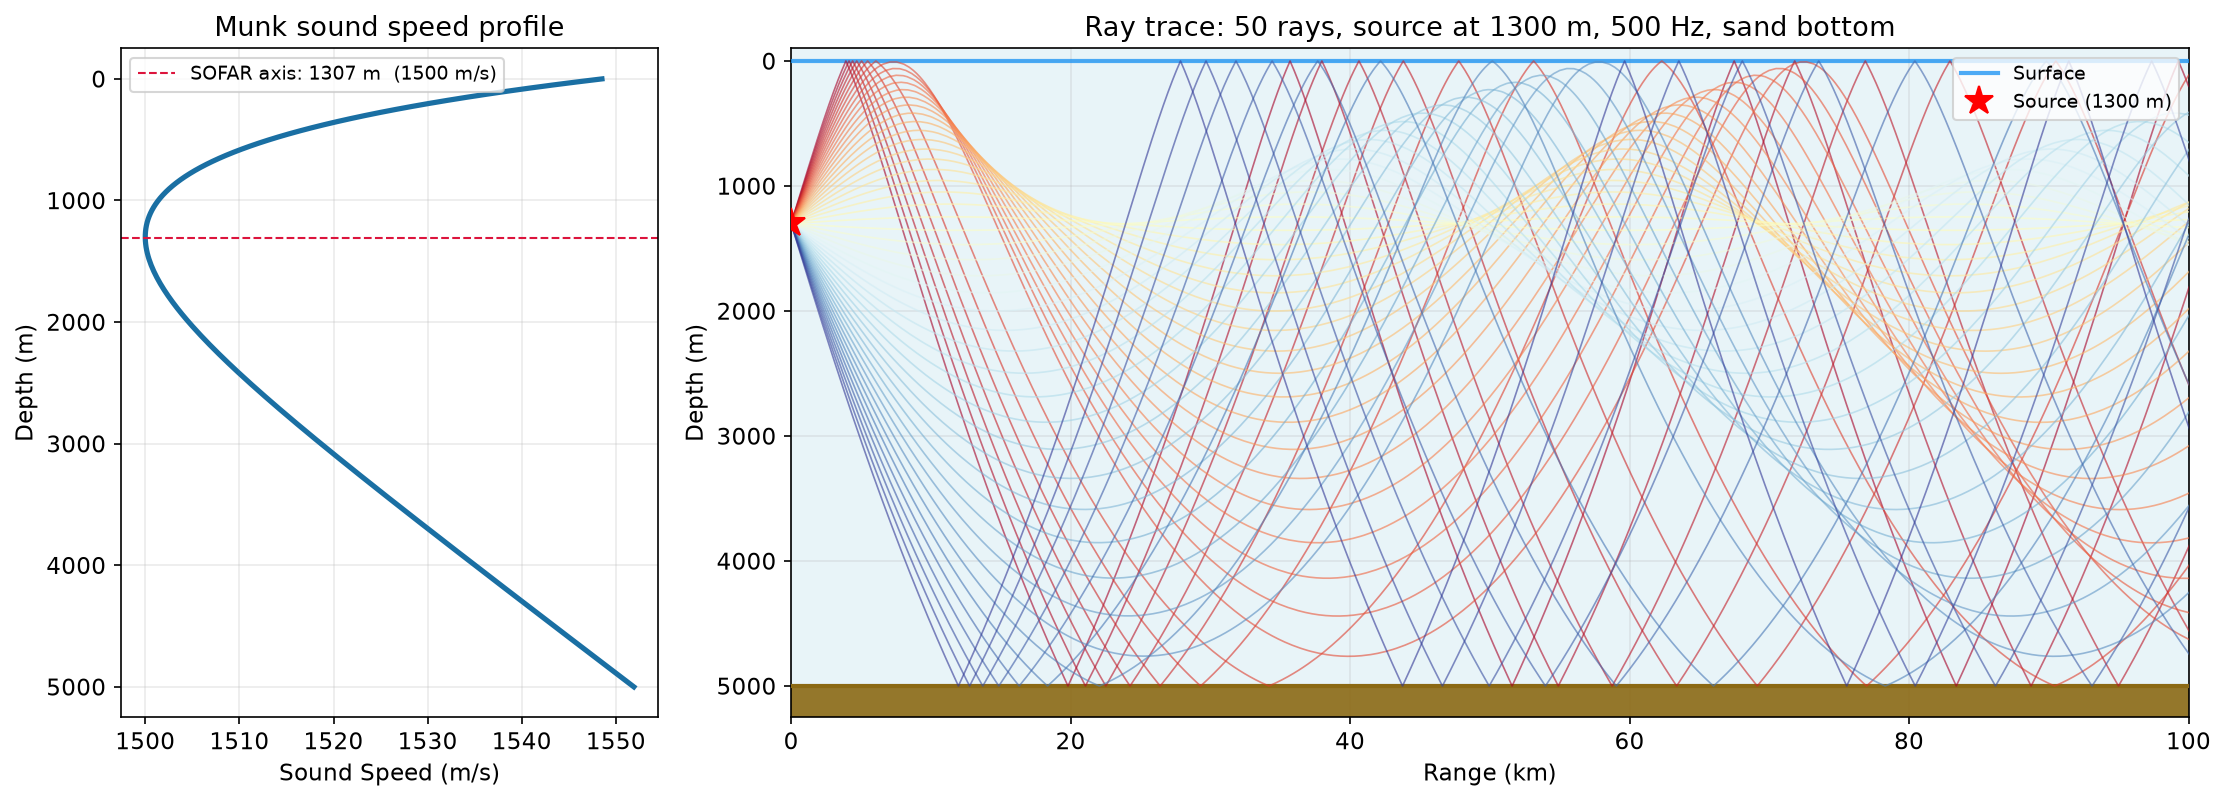
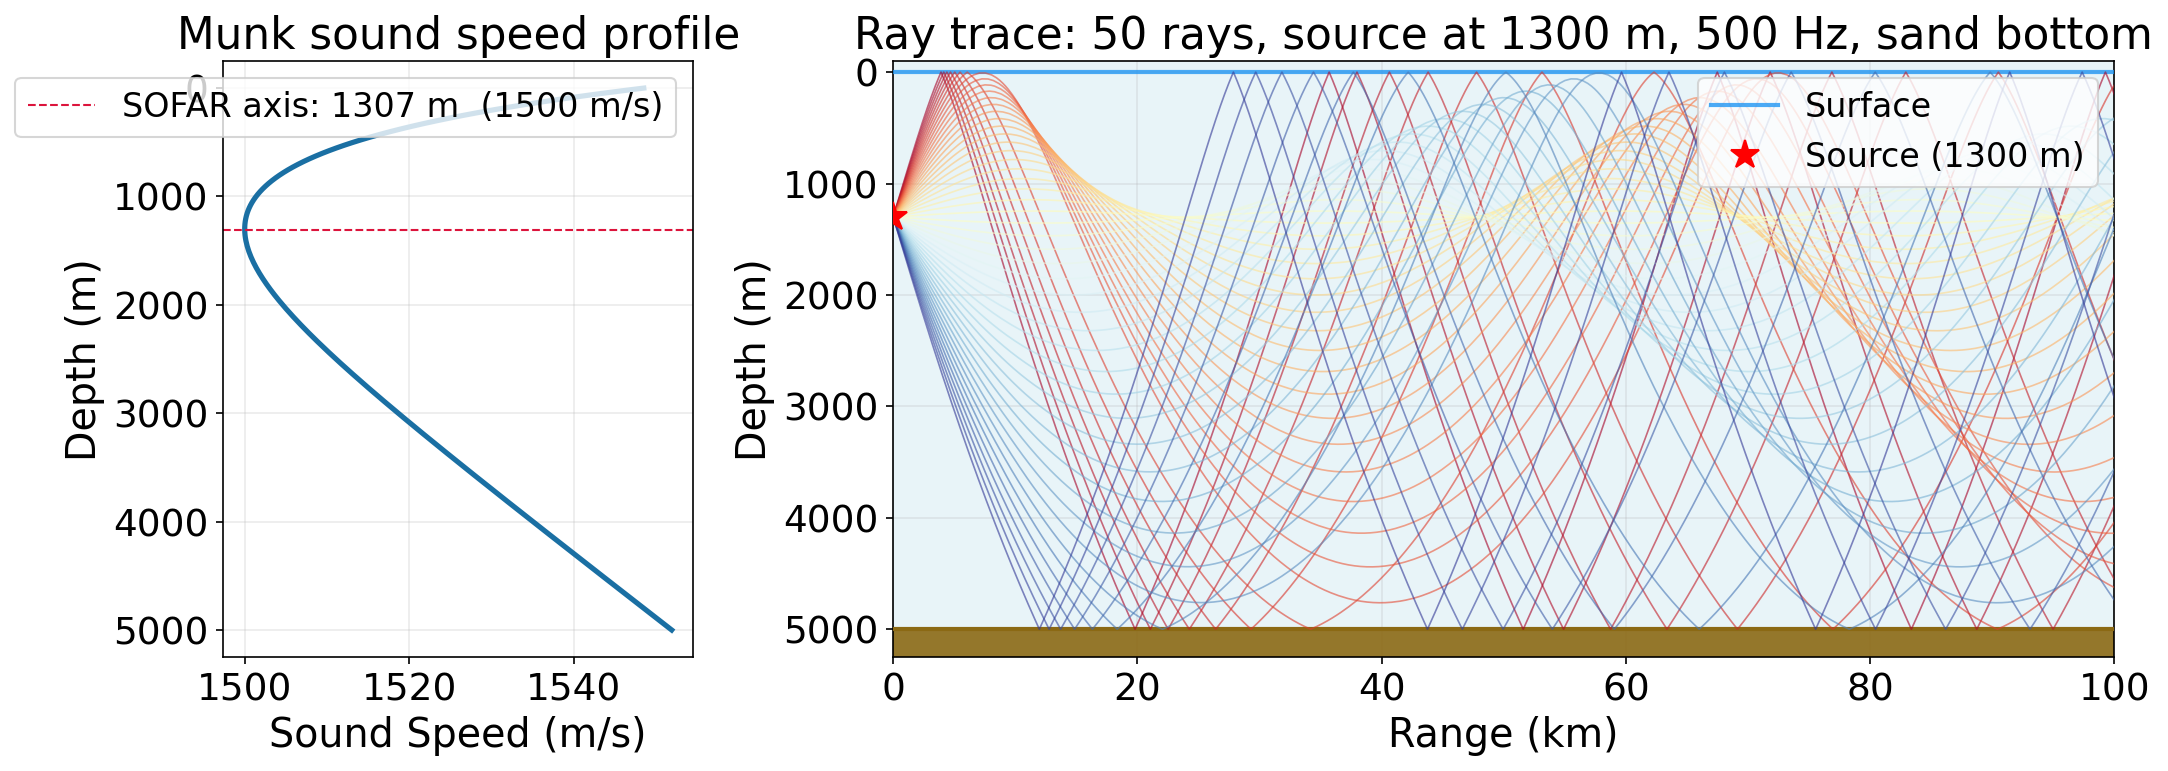
Export figures with type large enough to read at portfolio size

diff --git a/src/plotting.py b/src/plotting.py
@@ -22,6 +22,7 @@ SURFACE_COLOR = '#2196F3'
 GRID_ALPHA = 0.25
 LABEL_SIZE = 11
 TITLE_SIZE = 13
+LEGEND_SIZE = 9
 
 
 def _get_depth(env):
@@ -77,7 +78,7 @@ def plot_ssp(ssp, ax=None, title='Sound Speed Profile', color=WATER_COLOR):
     ax.set_ylabel('Depth (m)', fontsize=LABEL_SIZE)
     ax.set_title(title, fontsize=TITLE_SIZE)
     ax.grid(True, alpha=GRID_ALPHA)
-    ax.legend(fontsize=9)
+    ax.legend(fontsize=LEGEND_SIZE)
 
     c_min, c_max = ssp[:, 1].min(), ssp[:, 1].max()
     margin = (c_max - c_min) * 0.05 if c_max > c_min else 5.0
@@ -161,7 +162,7 @@ def plot_rays(ray_data, env, ax=None, title=None, max_rays=None, alpha=0.6):
     freq = env.get('frequency', '')
     default_title = f'Ray Diagram  |  f = {freq} Hz  |  depth = {water_depth:.0f} m'
     ax.set_title(title or default_title, fontsize=TITLE_SIZE)
-    ax.legend(fontsize=9, loc='upper right')
+    ax.legend(fontsize=LEGEND_SIZE, loc='upper right')
 
     if standalone:
         plt.tight_layout()
@@ -239,7 +240,7 @@ def plot_transmission_loss(tl_data, env, ax=None, dynamic_range=60, title=None, 
     ax.set_xlabel('Range (km)', fontsize=LABEL_SIZE)
     ax.set_ylabel('Depth (m)', fontsize=LABEL_SIZE)
     ax.grid(True, alpha=GRID_ALPHA, color='white')
-    ax.legend(fontsize=9, loc='upper right')
+    ax.legend(fontsize=LEGEND_SIZE, loc='upper right')
 
     default_title = f'Transmission Loss  |  f = {freq} Hz  |  {dynamic_range} dB dynamic range'
     ax.set_title(title or default_title, fontsize=TITLE_SIZE)
@@ -302,7 +303,7 @@ def plot_tl_slice(tl_data, depth_m, env, ax=None, title=None, color=WATER_COLOR)
     default_title = f'TL vs Range at {actual_depth:.0f} m  |  f = {freq} Hz'
     ax.set_title(title or default_title, fontsize=TITLE_SIZE)
     ax.grid(True, alpha=GRID_ALPHA)
-    ax.legend(fontsize=10)
+    ax.legend(fontsize=LEGEND_SIZE + 1)
 
     if standalone:
         plt.tight_layout()
@@ -491,7 +492,7 @@ def plot_scenario_comparison(tl_results, labels, env_list, depth_m=None):
     ax.set_title(f'TL Comparison at {depth_m:.0f} m depth' if depth_m else 'TL Comparison',
                  fontsize=TITLE_SIZE)
     ax.grid(True, alpha=GRID_ALPHA)
-    ax.legend(fontsize=10)
+    ax.legend(fontsize=LEGEND_SIZE + 1)
     fig.tight_layout()
     return fig
 

diff --git a/scripts/export_figures.py b/scripts/export_figures.py
@@ -37,17 +37,22 @@ import src.utils as ut
 OUT_DIR = os.path.join(ROOT, 'docs', 'figures')
 DPI = 150
 
+# The figures are shown about 500 to 1000 px wide on the portfolio, so the type is set large
+# enough to stay readable at that size.
 plt.rcParams.update({
     'figure.facecolor': 'white',
     'axes.facecolor': 'white',
     'savefig.facecolor': 'white',
-    'font.size': 12,
-    'axes.titlesize': 13,
-    'axes.labelsize': 12,
-    'xtick.labelsize': 11,
-    'ytick.labelsize': 11,
-    'legend.fontsize': 10,
+    'font.size': 19,
+    'axes.titlesize': 21,
+    'axes.labelsize': 19,
+    'xtick.labelsize': 18,
+    'ytick.labelsize': 18,
+    'legend.fontsize': 16,
 })
+pl.LABEL_SIZE = 19
+pl.TITLE_SIZE = 21
+pl.LEGEND_SIZE = 16
 
 # ── Scenario parameters ──────────────────────────────────────────────────────
 # Deep-water scenario: interactive notebook defaults (Sections 3 to 5)
@@ -196,7 +201,7 @@ def deep_water(pm, results):
     ax.annotate('', xy=(spread20_ms, y), xytext=(0, y),
                 arrowprops=dict(arrowstyle='<->', color='#0b0b0b', lw=1.5))
     ax.text(spread20_ms + spread_ms * 0.01, y, f'Within 20 dB of strongest ({n20} paths) = {spread20_ms:,.0f} ms',
-            ha='left', va='center', fontsize=11, color='#0b0b0b')
+            ha='left', va='center', fontsize=18, color='#0b0b0b')
     ax.axvline(spread20_ms, color='#52514e', linestyle=':', linewidth=1)
     bounce_pal = [pl.WATER_COLOR, '#27ae60', '#e67e22', '#c0392b']
     handles = [Line2D([0], [0], color=c, marker='o', lw=2, label=lbl) for c, lbl in
@@ -261,7 +266,7 @@ def frequency_sweep(pm, results):
                 markersize=5, markevery=8, label=f'{freq} Hz')
         last = np.where(np.isfinite(tl_slice))[0][-1]
         ax.annotate(f'{freq} Hz', xy=(rk[last], tl_slice[last]), xytext=(6, 0),
-                    textcoords='offset points', va='center', fontsize=10, color='#0b0b0b')
+                    textcoords='offset points', va='center', fontsize=16, color='#0b0b0b')
         summary[f'{freq}_hz'] = {
             f'tl_db_at_{r:g}_km': float(tl_slice[int(np.argmin(np.abs(rk - r)))])
             for r in (10, 50, 100)
